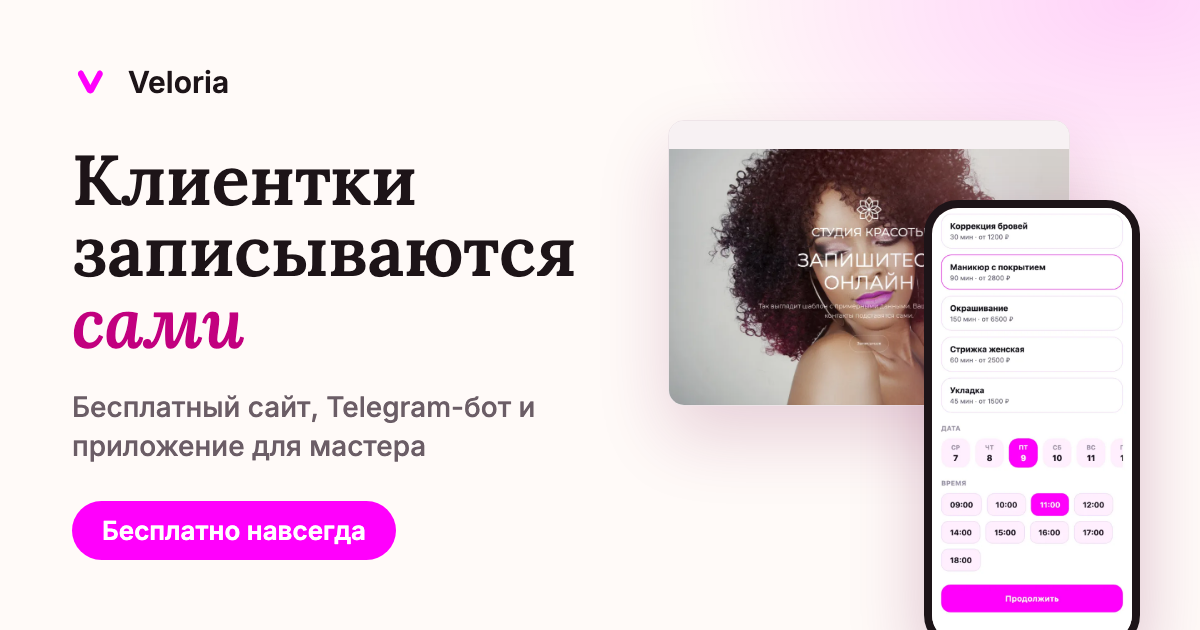
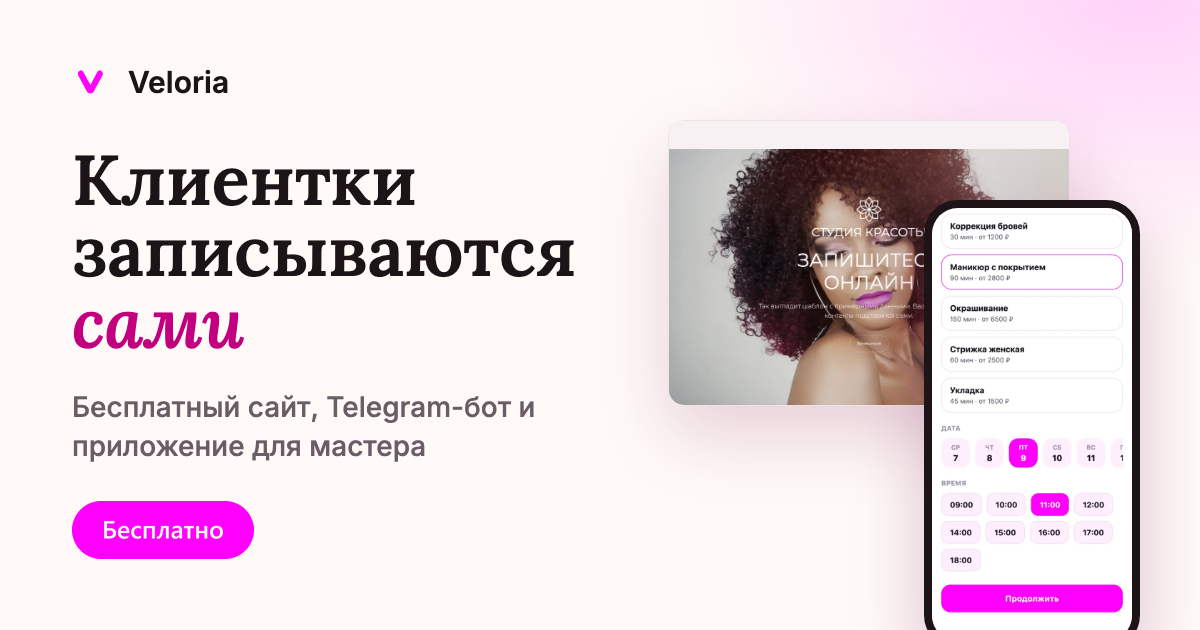
landing: drop 'forever' wording, default to Russian regardless of Accept-Language, new OG image

Changed region(s): [[0.0925, 0.7841, 0.3392, 0.9048]]

diff --git a/lang/ru/landing.php b/lang/ru/landing.php
@@ -11,7 +11,7 @@
 return [
     'meta' => [
         'title' => 'Veloria — клиентки записываются сами. Бесплатный сайт, бот и приложение для мастера',
-        'description' => 'Бесплатно навсегда: сайт с онлайн-записью, Telegram-бот, приложение для клиенток и кабинет мастера. Без переписки в директе и без забытых записей.',
+        'description' => 'Бесплатно: сайт с онлайн-записью, Telegram-бот, приложение для клиенток и кабинет мастера. Без переписки в директе и без забытых записей.',
     ],
 
     'nav' => [
@@ -26,13 +26,13 @@ return [
     ],
 
     'hero' => [
-        'badge' => 'Бесплатно навсегда',
+        'badge' => 'Бесплатно',
         'title' => 'Клиентки записываются',
         'title_accent' => 'сами',
         'lead' => 'Ваш сайт с онлайн-записью, Telegram-бот и приложение для клиенток — бесплатно. Вы работаете, а запись идёт сама: без переписки в директе и без «ой, я забыла».',
         'cta_primary' => 'Получить сайт бесплатно',
         'cta_example' => 'Посмотреть пример сайта',
-        'note' => 'Без карты · не пробный период, а навсегда · настройка за 5 минут',
+        'note' => 'Без карты · не пробный период · настройка за 5 минут',
         'site_address' => 'anna-nails',
         'notify_label' => 'Новая запись',
         'notify_title' => 'Анна К. · Маникюр с покрытием',
@@ -197,11 +197,11 @@ return [
 
     'pricing' => [
         'label' => 'Тарифы',
-        'title' => 'Сайт, бот и приложение — бесплатно навсегда',
+        'title' => 'Сайт, бот и приложение — бесплатно',
         'lead' => 'Платите, только когда захотите возвращать клиенток автоматически.',
         'period' => 'в месяц',
         'free' => 'бесплатно',
-        'note' => 'Карта не нужна. Бесплатный тариф — навсегда, а не на две недели.',
+        'note' => 'Карта не нужна. Бесплатный тариф — не пробный период.',
         'cta_free' => 'Начать бесплатно',
         'cta_paid' => 'Выбрать «:plan»',
         'plans' => [

diff --git a/lang/en/landing.php b/lang/en/landing.php
@@ -7,7 +7,7 @@
 return [
     'meta' => [
         'title' => 'Veloria — clients book themselves. A free booking site, bot and app for beauty pros',
-        'description' => 'Free forever: a booking website, a Telegram bot, a client app and a workspace for the master. No more booking in DMs, no more forgotten appointments.',
+        'description' => 'Free: a booking website, a Telegram bot, a client app and a workspace for the master. No more booking in DMs, no more forgotten appointments.',
     ],
 
     'nav' => [
@@ -22,13 +22,13 @@ return [
     ],
 
     'hero' => [
-        'badge' => 'Free forever',
+        'badge' => 'Free',
         'title' => 'Clients book',
         'title_accent' => 'themselves',
         'lead' => 'Your own booking website, a Telegram bot and a client app — free. You work, bookings keep coming: no back-and-forth in DMs and no “oops, I forgot”.',
         'cta_primary' => 'Get my free website',
         'cta_example' => 'See an example site',
-        'note' => 'No card · not a trial, free forever · 5-minute setup',
+        'note' => 'No card · not a trial · 5-minute setup',
         'site_address' => 'anna-nails',
         'notify_label' => 'New booking',
         'notify_title' => 'Anna K. · Gel manicure',
@@ -193,11 +193,11 @@ return [
 
     'pricing' => [
         'label' => 'Pricing',
-        'title' => 'Website, bot and app — free forever',
+        'title' => 'Website, bot and app — free',
         'lead' => 'Pay only when you want to bring clients back automatically.',
         'period' => 'per month',
         'free' => 'free',
-        'note' => 'No card needed. The free plan is forever, not for two weeks.',
+        'note' => 'No card needed. The free plan is not a trial.',
         'cta_free' => 'Start for free',
         'cta_paid' => 'Choose “:plan”',
         'plans' => [

diff --git a/app/Http/Middleware/SetLocale.php b/app/Http/Middleware/SetLocale.php
@@ -12,6 +12,8 @@ class SetLocale
      */
     private const SUPPORTED_LOCALES = ['ru', 'en'];
 
+    private const DEFAULT_LOCALE = 'ru';
+
     public function handle(Request $request, Closure $next): mixed
     {
         $locale = null;
@@ -24,16 +26,11 @@ class SetLocale
             }
         }
 
+        // Russian is the product default. Accept-Language is deliberately ignored:
+        // link-preview crawlers (Telegram, etc.) send "en" and would cache an
+        // English snippet. English is only served when the user picks it.
         if (! $locale) {
-            $locale = $request->getPreferredLanguage(self::SUPPORTED_LOCALES);
-        }
-
-        if (! in_array($locale, self::SUPPORTED_LOCALES, true)) {
-            $locale = config('app.fallback_locale', 'en');
-        }
-
-        if (! in_array($locale, self::SUPPORTED_LOCALES, true)) {
-            $locale = 'en';
+            $locale = self::DEFAULT_LOCALE;
         }
 
         app()->setLocale($locale);
